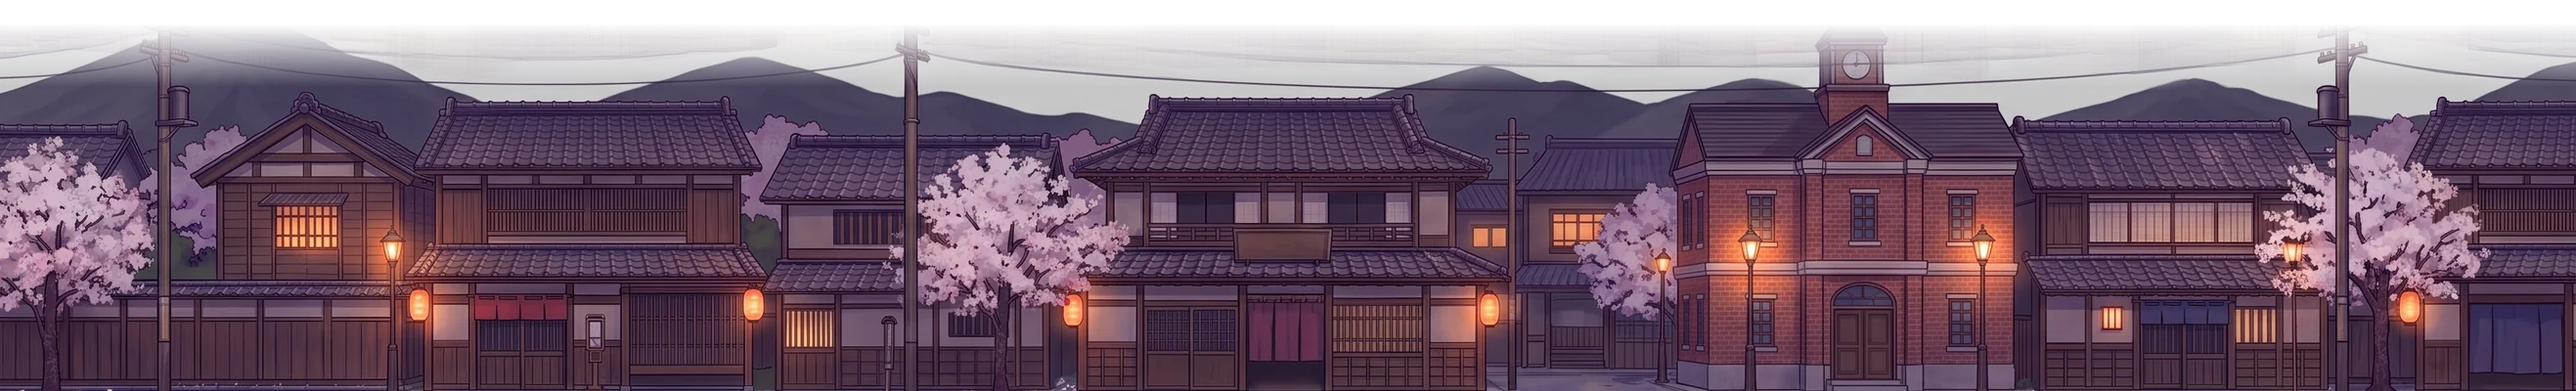
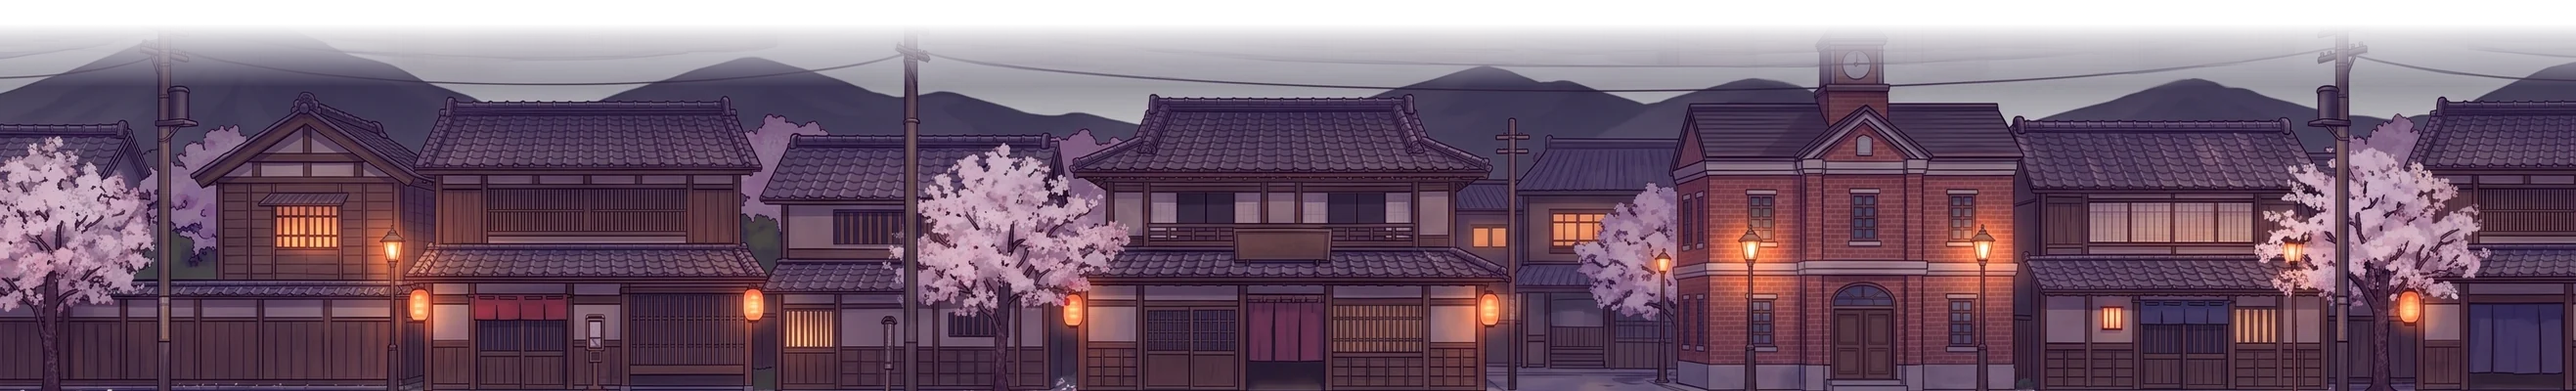
見た目：夜空を藍と紫に・町との境を夜の色へ・月の光の筋・月をメインビジュアルの紅い月に・花びらを奥と手前に分けて風のひと吹き・蛍の光・夜霧・裂け目の火の粉・技で花びらが舞う・題字にメインビジュアル・桜嵐のカットインに立ち絵・下の板を大正ロマン風に
道具：tools/export-ui.py（題字・月・カットイン）・scripts/shot.mjs（1枚撮る）

Claude-Session: https://claude.ai/code/session_01DKcbbTXtbg1mzEzebAdk8Q

Changed region(s): [[0.1245, 0.09, 1.0, 0.3], [0.0, 0.12, 0.0623, 0.24]]

diff --git a/app/src/view.ts b/app/src/view.ts
@@ -72,6 +72,8 @@ export class View {
   vt = 0; // 画面の時計
   private lastWave = '';
   private ambientT = 0;
+  private gustT = 5; // 次の風のひと吹きまで（負のあいだは吹いている）
+  private fog: Sprite[] = []; // 地面すれすれを流れる夜霧
   heroAt = { x: 0, y: 0 }; // 吹き出しを置く位置（画面の座標）
   trail: { x: number; y: number; t: number }[] = []; // 指の軌跡（input が足す）
   dragGhost: { kind: DogKind; x: number; lane: number } | null = null; // 昼：置こうとしている番犬
@@ -84,8 +86,14 @@ export class View {
     // resizeTo は窓の大きさしか見ない。下の板（昼と夜で高さが変わる）に合わせて、戦場の大きさを測り直す
     new ResizeObserver(() => this.app.resize()).observe(host);
     const st = this.app.stage;
-    st.addChild(this.backdrop.sky, this.backdrop.stars, this.backdrop.moon, this.paraRoot, this.shade, this.world);
-    this.world.addChild(this.ground, this.house, this.houseOver, this.backG, this.dogBack, this.wolfBack, this.ghostLayer, this.rig.root, this.frontG, this.dogFront, this.wolfFront, this.wolfHud, this.overG, this.parts.root);
+    st.addChild(this.backdrop.sky, this.backdrop.stars, this.backdrop.rays, this.backdrop.moon, this.paraRoot, this.shade, this.world);
+    for (let i = 0; i < 7; i++) {
+      const f = new Sprite(glowTexture());
+      f.anchor.set(0.5);
+      f.tint = 0xa898d0;
+      this.fog.push(f);
+    }
+    this.world.addChild(this.ground, ...this.fog, this.house, this.houseOver, this.backG, this.dogBack, this.wolfBack, this.ghostLayer, this.rig.root, this.frontG, this.dogFront, this.wolfFront, this.wolfHud, this.overG, this.parts.root);
     for (let i = 0; i < 48; i++) {
       const t = new Text({ text: '', style: { fontFamily: 'system-ui, sans-serif', fontWeight: '900', fontStyle: 'italic', fontSize: 22, fill: 0xffffff, stroke: { color: 0x000000, width: 5 } } });
       t.anchor.set(0.5);
@@ -113,6 +121,11 @@ export class View {
       this.edgeText.push(t);
     }
     st.addChild(this.mini.root);
+    Assets.load<Texture>(`${import.meta.env.BASE_URL}ui/moon.webp`).then((t) => {
+      this.backdrop.moonArt.texture = t;
+      this.backdrop.moonArt.visible = true;
+      this.lastWave = '';
+    }).catch((e) => console.warn('moon', e));
     // 背景の町並みの絵。読み込めたら背景を作り直す（読めなければ影絵のまま）
     Assets.load<Texture>(`${import.meta.env.BASE_URL}bg/town.webp`).then((t) => {
       this.backdrop.town = t;
@@ -258,6 +271,16 @@ export class View {
     // ── 地面・家・裂け目・影 ──
     const gr = this.ground.clear();
     if (!day) this.drawPath(gr, sim);
+    // 夜霧：地面すれすれを、平たい霧の塊がゆっくり左へ流れる
+    const span = FIELD_LENGTH * g.K + g.W * 2;
+    this.fog.forEach((f, i) => {
+      f.visible = !day;
+      f.width = g.W * (1.1 + 0.3 * Math.sin(i * 2.3));
+      f.height = g.Hm * 0.12;
+      f.x = ((((i * 0.37 * span - this.vt * (14 + i * 3)) % span) + span) % span) - g.W;
+      f.y = this.wy(((i * 0.29) % 1) * 1.1 - 0.05) + g.Hm * 0.02;
+      f.alpha = 0.09 + 0.03 * Math.sin(this.vt * 0.5 + i); // 濃いと画面全体が白くかすんだ
+    });
     this.drawHouse(gr, sim, dt);
     this.drawRift(gr, sim);
     const shadow = (x: number, lane: number, w: number, zz: number) => {
@@ -390,6 +413,7 @@ export class View {
       case 'dash': {
         const dir = f.dir ?? 1;
         P.dust(x, y, s * 1.4, 6, 50, 60);
+        for (let i = 0; i < 6; i++) P.petal(x, y - 4, s, -dir * (100 + Math.random() * 200), -120 - Math.random() * 200); // 足もとの花びらを巻き上げる
         P.glow(x, y - this.heroH(f.lane) * 0.5, this.heroH(f.lane) * 1.1, 0xff6090, 0.2, 0.5);
         for (let i = 0; i < 8; i++) {
           const ly = Math.random() * this.geo.Hm * 0.8 + this.geo.Hm * 0.1;
@@ -401,6 +425,7 @@ export class View {
         P.ring(x, y, 10, (f.r ?? 80) * this.geo.K * 1.6, 6 * s, 0xffe0c0, 0.35, 0.28);
         P.debris(x, y - 4, s, 14, y + 6);
         P.dust(x, y, s * 1.8, 8, 90, 50);
+        for (let i = 0; i < 10; i++) P.petal(x + (Math.random() - 0.5) * 80, y, s, (Math.random() - 0.5) * 300, -200 - Math.random() * 300); // 地面の花びらが舞い上がる
         this.flash = Math.max(this.flash, 0.2);
         break;
       }
@@ -479,8 +504,20 @@ export class View {
     if (this.ambientT <= 0) {
       this.ambientT = 0.05;
       if (h.running > 0 && h.z <= 0 && Math.random() < (h.running > 400 ? 0.9 : 0.45)) P.dust(this.wx(h.x) - h.facing * 14, this.wy(h.lane), this.ds(h.lane) * g.Hm / 600, 1, 20, 30);
-      // 夜風の花びら（画面の右上から）
-      if (Math.random() < 0.35) this.screenParts.petal(g.W * (0.3 + Math.random() * 0.8), -10, 1, -40 - Math.random() * 60, 30 + Math.random() * 40, 5 + Math.random() * 3);
+      // 夜風の花びら（画面の右上から）。奥は小さくゆっくり、手前は大きく速く。ときどき風がひと吹きする
+      this.gustT -= 0.05;
+      if (this.gustT < -1.6) this.gustT = 6 + Math.random() * 7;
+      const gust = this.gustT < 0;
+      const SP = this.screenParts;
+      if (Math.random() < 0.7) SP.petal(g.W * (0.2 + Math.random() * 0.9), -10, 0.6, -30 - Math.random() * 40, 20 + Math.random() * 25, 7 + Math.random() * 4);
+      if (Math.random() < 0.3) SP.petal(g.W * (0.4 + Math.random() * 0.7), -10, 1.5, -90 - Math.random() * 80, 60 + Math.random() * 50, 3 + Math.random() * 2);
+      if (gust) for (let i = 0; i < 4; i++) SP.petal(g.W + 10, Math.random() * g.Hm * 0.8, 0.6 + Math.random(), -380 - Math.random() * 300, (Math.random() - 0.3) * 120, 2.5);
+      // 蛍のような光の粒（夜・画面に映っている地面の上）・裂け目の火の粉
+      if (sim.phase === 'wave' && Math.random() < 0.35) {
+        const x = this.cam.x - g.W / 2 / this.cam.z + Math.random() * (g.W / this.cam.z); // 画面に映っている所
+        P.firefly(x, this.wy(Math.random()) - Math.random() * g.Hm * 0.25, g.Hm / 600);
+      }
+      if (Math.random() < 0.6) P.ember(this.wx(WOLF_SPAWN_X) + (Math.random() - 0.5) * 30, this.wy(Math.random()) - Math.random() * g.Hm * 0.2, g.Hm / 600);
       // 桜嵐：花吹雪
       if (h.ouran > 0) for (let i = 0; i < 6; i++) this.screenParts.petal(g.W + 10, Math.random() * g.Hm, 1.6, -600 - Math.random() * 500, (Math.random() - 0.5) * 200, 1.4);
       // 溜め：まわりから光の粒が集まる

diff --git a/app/src/backdrop.ts b/app/src/backdrop.ts
@@ -19,6 +19,7 @@ export class Backdrop {
   sky = new Graphics(); // 画面に固定
   stars = new Graphics();
   moon = new Container();
+  rays = new Graphics(); // 月から斜めに差す光の筋（画面に固定・加算）
   layers: Layer[] = [];
   front!: Layer; // 手前の草（体より前）
   private moonG = new Graphics();
@@ -26,12 +27,16 @@ export class Backdrop {
   private moonGlow = new Sprite(glowTexture());
   private lights: { s: Sprite; x: number; y: number; ph: number }[] = [];
   private starList: { x: number; y: number; r: number; ph: number }[] = [];
+  moonArt = new Sprite(); // 紅い月の絵（メインビジュアルから切り抜き）。あれば図形の月の代わり
   town: Texture | null = null; // 町並みの絵（2026-10-04 生成）。あれば奥の山と町の影絵の代わりに使う
 
   constructor() {
     this.moonGlow.anchor.set(0.5);
+    this.rays.blendMode = 'add';
     this.moonGlow.blendMode = 'add';
-    this.moon.addChild(this.moonGlow, this.moonG, this.sunG);
+    this.moonArt.anchor.set(0.5);
+    this.moonArt.visible = false;
+    this.moon.addChild(this.moonGlow, this.moonG, this.moonArt, this.sunG);
   }
 
   // 画面の大きさが変わったら作り直す。horizon は地面の奥の端（世界の y）、width は戦場の幅（世界の px）
@@ -58,6 +63,7 @@ export class Backdrop {
     mg.moveTo(R * 0.1, -R).lineTo(-R * 0.05, -R * 0.4).lineTo(R * 0.15, -R * 0.05).lineTo(-R * 0.1, R * 0.45).lineTo(R * 0.05, R)
       .stroke({ width: 3, color: 0xff9080, alpha: 0.9 });
     this.sunG.clear().circle(0, 0, R * 0.8).fill(0xfff4d0).circle(0, 0, R * 0.62).fill(0xffffff);
+    this.moonArt.width = this.moonArt.height = R * 2.6; // 絵の縁の柔らかい所のぶん大きめに
     this.moonGlow.width = this.moonGlow.height = R * 6;
     this.moonGlow.tint = 0xff4050;
     this.moonGlow.alpha = 0.35;
@@ -178,9 +184,9 @@ export class Backdrop {
     const rg = rng(57);
     const gx0 = -w * 2;
     const gw = width + w * 4;
-    ground.rect(gx0, horizon, gw, h * 1.2).fill(0x2a1e1e);
-    ground.rect(gx0, horizon + h * 0.06, gw, h * 1.2).fill(0x2e2220);
-    ground.rect(gx0, horizon + h * 0.14, gw, h * 1.2).fill(0x332623);
+    ground.rect(gx0, horizon, gw, h * 1.2).fill(0x342834);
+    ground.rect(gx0, horizon + h * 0.06, gw, h * 1.2).fill(0x3a2d36);
+    ground.rect(gx0, horizon + h * 0.14, gw, h * 1.2).fill(0x40323a);
     ground.rect(gx0, horizon, gw, 2).fill({ color: 0x5a4038, alpha: 0.8 });
     for (let i = 0; i < 160; i++) {
       const x = gx0 + rg() * gw;
@@ -212,9 +218,10 @@ export class Backdrop {
   // 毎フレーム：星のまたたき・灯りのゆらぎ・空の色（昼 day=1）
   update(t: number, w: number, horizon: number, day: number, skyTop: number) {
     const s = this.sky.clear();
-    const top = mix(0x0a0610, 0x5a86b8, day);
-    const mid = mix(0x24101e, 0x9ab8d8, day);
-    const low = mix(0x4a1c2a, 0xf0d0b0, day);
+    // 夜は真っ暗にせず、深い藍から紫へ（2026-10-04 アマネさん「夜もあんまり暗くなくてもいい」）
+    const top = mix(0x161a3c, 0x5a86b8, day);
+    const mid = mix(0x34295a, 0x9ab8d8, day);
+    const low = mix(0x6a3a5c, 0xf0d0b0, day);
     const bands = 36;
     for (let i = 0; i < bands; i++) {
       const k = i / (bands - 1);
@@ -226,7 +233,21 @@ export class Backdrop {
       for (const p of this.starList) st.circle(p.x, p.y + skyTop, p.r).fill({ color: 0xffffff, alpha: (0.35 + 0.35 * Math.sin(t * 2 + p.ph)) * (1 - day) });
     }
     for (const l of this.lights) l.s.alpha = (0.32 + 0.1 * Math.sin(t * 3 + l.ph) + 0.05 * Math.sin(t * 11 + l.ph)) * (1 - day * 0.8);
-    this.moonG.alpha = 1 - day;
+    this.moonG.alpha = this.moonArt.visible ? 0 : 1 - day;
+    this.moonArt.alpha = 1 - day;
+    // 光の筋：月から左下へ、ゆっくり明滅
+    const r = this.rays.clear();
+    if (day < 1) {
+      const mx = this.moon.x;
+      const my = this.moon.y;
+      for (let i = 0; i < 4; i++) {
+        const a = 2.2 + i * 0.13;
+        const len = horizon * 1.6;
+        const wdt = 0.035 + 0.012 * Math.sin(i * 3.1);
+        const al = (0.05 + 0.03 * Math.sin(t * 0.7 + i * 1.9)) * (1 - day);
+        r.poly([mx, my, mx + Math.cos(a - wdt) * len, my + Math.sin(a - wdt) * len, mx + Math.cos(a + wdt) * len, my + Math.sin(a + wdt) * len]).fill({ color: 0xffd0d8, alpha: al });
+      }
+    }
     this.sunG.alpha = day;
     this.moonGlow.tint = mix(0xff4050, 0xfff0c0, day);
     const tint = mix(0xffffff, 0xd8c8d0, day);

diff --git a/app/src/style.css b/app/src/style.css
@@ -39,8 +39,13 @@ body {
   grid-template-rows: auto auto;
   gap: 8px;
   padding: 8px 16px 12px;
-  background: var(--panel);
-  border-top: 2px solid var(--line);
+  /* 大正ロマン：矢絣の模様をうっすら・金の縁 */
+  background:
+    repeating-linear-gradient(60deg, rgba(200, 168, 96, 0.05) 0 14px, transparent 14px 28px),
+    repeating-linear-gradient(-60deg, rgba(179, 32, 42, 0.06) 0 14px, transparent 14px 28px),
+    var(--panel);
+  border-top: 2px solid var(--brass);
+  box-shadow: inset 0 3px 0 rgba(200, 168, 96, 0.25);
 }
 
 .status { display: flex; align-items: center; gap: 12px; font-size: 15px; }
@@ -74,9 +79,10 @@ body {
 button {
   position: relative;
   overflow: hidden;
-  border: 2px solid var(--line);
+  border: 2px solid #5a4630;
   border-radius: 10px;
-  background: #2a2026;
+  background: linear-gradient(#34262c, #241a1e);
+  box-shadow: inset 0 1px 0 rgba(255, 230, 180, 0.12), 0 2px 0 rgba(0, 0, 0, 0.4);
   color: var(--text);
   font: inherit;
   font-size: 18px;
@@ -112,6 +118,8 @@ button::after {
   text-align: center;
 }
 #overlay[hidden] { display: none; }
+#overlay.title { background: linear-gradient(rgba(10, 6, 12, 0.35), rgba(10, 6, 12, 0.88) 55%), var(--title) center top / cover no-repeat; justify-content: flex-end; padding-bottom: 6vh; }
+#overlay.title h1 { text-shadow: 0 2px 0 #000, 0 0 18px rgba(255, 60, 90, 0.7); }
 #overlay h1 { margin: 0; font-size: 34px; letter-spacing: 0.15em; display: flex; flex-direction: column; gap: 6px; }
 #overlay h1 small { font-size: 18px; color: var(--brass); letter-spacing: 0.3em; }
 #overlay p { margin: 0; color: var(--dim); }
@@ -205,7 +213,10 @@ body.day #card b { text-shadow: 0 2px 0 #000, 0 0 18px rgba(255, 220, 120, 0.8);
   display: flex;
   align-items: center;
   justify-content: center;
-  background: linear-gradient(90deg, transparent, #b3202a 15%, #b3202a 85%, transparent);
+  /* 桜嵐のカットイン：紅い帯の右に立ち絵（2026-10-04） */
+  background: var(--art) 100% 14% / auto 165% no-repeat, linear-gradient(90deg, transparent, #b3202a 15%, #b3202a 85%, transparent);
+  justify-content: flex-start;
+  padding-left: 18%;
   transform: skewY(-6deg);
   font: italic 900 38px/1 system-ui, sans-serif;
   letter-spacing: 0.2em;

diff --git a/app/src/main.ts b/app/src/main.ts
@@ -69,6 +69,10 @@ async function main() {
   const comboEl = document.getElementById('combo')!;
   const bubble = document.getElementById('bubble')!;
   const cutin = document.getElementById('cutin')!;
+  // 絵の場所は公開先の置き場所で変わるので、ここで渡す
+  const BASE = import.meta.env.BASE_URL;
+  cutin.style.setProperty('--art', `url(${BASE}ui/cutin.webp)`);
+  overlay.style.setProperty('--title', `url(${BASE}ui/title.webp)`);
   const surge = document.getElementById('surge')!;
   const next = document.getElementById('next')!;
   const card = document.getElementById('card')!;
@@ -184,7 +188,8 @@ async function main() {
   const manual = !!params.get('manual');
   let running = false;
   let shown = 'playing';
-  function show(html: string, buttons: [string, () => void][]) {
+  function show(html: string, buttons: [string, () => void][], title = false) {
+    overlay.classList.toggle('title', title); // 題字の画面だけ、メインビジュアルを敷く
     overlay.innerHTML = `${html}<div class="choices"></div>`;
     const box = overlay.querySelector('.choices')!;
     for (const [label, act] of buttons) {
@@ -245,7 +250,7 @@ async function main() {
      <ul><li><b>タップ</b>：斬る（連打で連撃）／遠くの地面：走る</li><li><b>はじく</b>：左右＝突進斬り・上＝斬り上げ・下＝叩き落とし</li><li><b>長押し→離す</b>：主砲</li><li><b>下の地図をタップ</b>：そこへ駆けつける</li><li>当てるとゲージが溜まる。満タンで桜嵐</li><li>昼：鍛える・番犬を戦場に置く</li></ul>`;
   show(title, saved
     ? [[`続きから（${saved.wave + 1}日目の昼）`, () => (sim = Sim.load(saved, seed()))], ['はじめから', fresh]]
-    : [['はじめる', () => {}]]);
+    : [['はじめる', () => {}]], true);
   if (params.get('auto')) {
     overlay.hidden = true;
     running = true;

diff --git a/app/src/fx.ts b/app/src/fx.ts
@@ -97,6 +97,16 @@ export class Particles {
     this.add({ kind: 'petal', x, y, vx: vx * s, vy: vy * s, life, size: rnd(3, 5.5) * s, color: pick(PINK), rot: rnd(0, 6.28), vr: rnd(-8, 8), g: 160 * s, drag: 2.2 });
   }
 
+  // 蛍のような光の粒：ゆっくり漂って、ふっと消える（夜の地面の上）
+  firefly(x: number, y: number, s: number) {
+    this.add({ kind: 'glow', x, y, vx: rnd(-14, 14) * s, vy: rnd(-22, -6) * s, life: rnd(2, 3.5), size: rnd(10, 18) * s, grow: -0.3, color: Math.random() < 0.5 ? 0xfff2a8 : 0xd8ffb0, alpha: rnd(0.5, 0.85) });
+  }
+
+  // 火の粉：裂け目から紅く舞い上がる
+  ember(x: number, y: number, s: number) {
+    this.add({ kind: 'glow', x, y, vx: rnd(-30, 30) * s, vy: rnd(-90, -40) * s, life: rnd(0.8, 1.6), size: rnd(8, 14) * s, grow: -0.6, color: Math.random() < 0.6 ? 0xff5040 : 0xffa060, alpha: 0.9 });
+  }
+
   // 斬撃の弧。a0→a1 へ一瞬で振り抜き、尾が細くなって消える
   arc(x: number, y: number, r: number, a0: number, a1: number, w: number, color = 0xffffff, life = 0.2) {
     this.add({ kind: 'arc', x, y, size: r, a0, a1, w, color, life, grow: r * 0.15 });

diff --git a/tools/export-ui.py b/tools/export-ui.py
@@ -1,0 +1,49 @@
+#!/usr/bin/env python3
+"""画面の飾りの絵を app/public/ui/ に書き出す。無料（決まっている1枚絵から切り出す）。
+
+- title.webp：題字の画面の背景（メインビジュアル mainvisual-v5）
+- moon.webp：ゲームの紅い月（メインビジュアルの月を丸く切り抜く。裂け目から狼の影が飛び出す絵。
+  図形の月が「リアルじゃない」（2026-10-04 アマネさん））
+- cutin.webp：桜嵐のカットイン（立ち絵 taisho-v11 の上半身。背景のクリーム色を抜く。肌が背景に近く、囲まれた所まで抜くと顔に穴が開いたので、縁から辿れる所だけ）
+
+    python3 tools/export-ui.py
+"""
+import os
+import subprocess
+import tempfile
+
+import cv2
+import numpy as np
+from PIL import Image
+
+OUT = 'app/public/ui'
+os.makedirs(OUT, exist_ok=True)
+mv = Image.open('assets/spinoff/akazukin/mainvisual-v5.jpg').convert('RGB')
+
+t = mv.copy()
+t.thumbnail((900, 1200), Image.LANCZOS)
+t.save(f'{OUT}/title.webp', quality=82, method=6)
+
+# 月：メインビジュアルの月の真ん中と半径（目で測った。1856x2304 の画素）
+cx, cy, r = 1468, 316, 300
+m = mv.crop((cx - int(r * 1.25), cy - int(r * 1.25), cx + int(r * 1.25), cy + int(r * 1.25)))
+a = np.asarray(m).copy()
+n = a.shape[0]
+yy, xx = np.mgrid[:n, :n]
+d = np.hypot(xx - n / 2, yy - n / 2) / r
+alpha = np.clip((1.08 - d) / 0.12, 0, 1)  # 月の縁で柔らかく抜く
+rgba = np.dstack([a, (alpha * 255).astype(np.uint8)])
+Image.fromarray(rgba, 'RGBA').resize((360, 360), Image.LANCZOS).save(f'{OUT}/moon.webp', quality=88, method=6)
+
+# カットイン：立ち絵の背景を抜き（tools/cutout.py）、頭から腰まで
+with tempfile.TemporaryDirectory() as tmp:
+    subprocess.run(['python3', 'tools/cutout.py', 'assets/spinoff/akazukin/taisho-v11.jpg', '--out', tmp, '--names', 'hero', '--tol', '18', '--hole', '100000000'], check=True, capture_output=True)
+    # 弓と弦のあいだに囲まれたクリーム色（目で確かめて指す）
+    subprocess.run(['python3', 'tools/punch.py', f'{tmp}/hero.png', '199,417', '161,605'], check=True, capture_output=True)
+    hero = Image.open(f'{tmp}/hero.png').convert('RGBA')
+w, h = hero.size
+c = hero.crop((int(w * 0.05), int(h * 0.0), int(w * 0.95), int(h * 0.5)))
+c.thumbnail((900, 700), Image.LANCZOS)
+c.save(f'{OUT}/cutin.webp', quality=86, method=6)
+for f in sorted(os.listdir(OUT)):
+    print(f, Image.open(f'{OUT}/{f}').size, os.path.getsize(f'{OUT}/{f}') // 1024, 'KB')

diff --git a/tools/export-backdrop.py b/tools/export-backdrop.py
@@ -18,6 +18,10 @@ a = np.asarray(strip).copy()
 h = a.shape[0]
 y = np.arange(h)[:, None]
 alpha = np.clip((y - h * 0.06) / (h * 0.16), 0, 1) * 255  # 上の22%で透明から不透明へ
+# もやの明るい灰色が夜空との境で白く浮いた（2026-10-04 アマネさん「境が明るすぎる」）。上の35%を夜の藍へ沈める
+night = np.array([38, 30, 62], dtype=np.float32)
+k = np.clip(1 - y / (h * 0.35), 0, 1)[:, :, None] * 0.75
+a = (a.astype(np.float32) * (1 - k) + night * k).astype(np.uint8)
 rgba = np.dstack([a, np.broadcast_to(alpha, a.shape[:2]).astype(np.uint8)])
 out = Image.fromarray(rgba, 'RGBA')
 k = 400 / h
